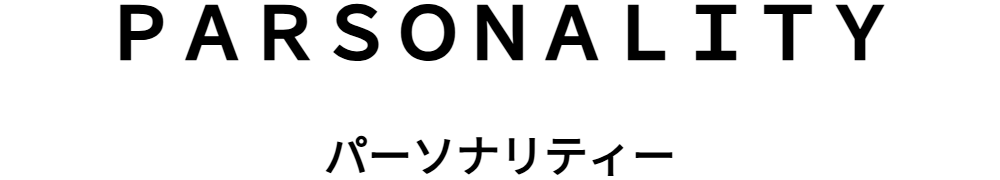
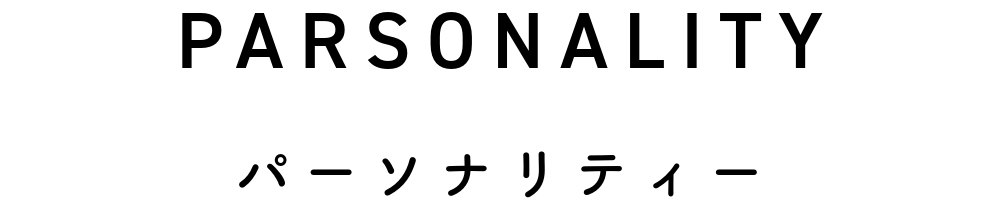
メインビジュアル、セクションヘッド画像修正

Changed region(s): [[0.093, 0.0, 0.899, 0.3611], [0.217, 0.75, 0.682, 1.0], [0.713, 0.8333, 0.775, 0.8889]]

diff --git a/src/pages/index.js b/src/pages/index.js
@@ -21,6 +21,20 @@ const IndexPage = ({ data }) => {
         }
     }, [])
 
+    useEffect(() => {
+        const scriptId = "note-embed-script"
+        if (!document.getElementById(scriptId)) {
+            const script = document.createElement("script")
+            script.id = scriptId
+            script.async = true
+            script.src = "https://note.com/scripts/embed.js"
+            document.body.appendChild(script)
+            return () => {
+                document.body.removeChild(script)
+            }
+        }
+    }, [])
+
     return (
         <Layout pageTitle="Index">
             {/*MAIN VISUAL*/}
@@ -31,9 +45,10 @@ const IndexPage = ({ data }) => {
                     </div>
                 </h1>
                 <StaticImage
-                    src="../images/kagegonomi_mainvisual_temp.png"
+                    src="../images/kagegonomi_mainvisual_temp.webp"
                     alt="kagegonomi main visual"
                     layout="fullWidth"
+                    loading="eager"
                     placeholder="blurred"
                     quality={90}
                     className="w-full h-auto"
@@ -73,8 +88,10 @@ const IndexPage = ({ data }) => {
                                 src="../images/onair.png"
                                 alt="onair"
                                 layout="fixed"
+                                loading="eager"
                                 placeholder="blurred"
                                 height={320}
+                                className="transition transform duration-300 hover:scale-110"
                             />
                         </a>
                     ) : (
@@ -83,8 +100,10 @@ const IndexPage = ({ data }) => {
                                 src="../images/offair.png"
                                 alt="offair"
                                 layout="fixed"
+                                loading="eager"
                                 placeholder="blurred"
                                 height={320}
+                                className="transition transform duration-300 hover:scale-110"
                             />
                         </a>
                     )}
@@ -95,8 +114,23 @@ const IndexPage = ({ data }) => {
                             src="../images/otayori.png"
                             alt="otayori"
                             layout="fixed"
+                            loading="eager"
                             placeholder="blurred"
                             height={180}
+                            className="transition transform duration-300 hover:scale-110"
+                        />
+                    </a>
+                </div>
+                <div className="absolute bottom-0 right-0 mb-16 mr-72">
+                    <a href="https://x.com/kagegonomi" target="_blank" rel="noopener noreferrer">
+                        <StaticImage
+                            src="../images/x_logo.png"
+                            alt="x"
+                            layout="fixed"
+                            loading="eager"
+                            placeholder="blurred"
+                            height={120}
+                            className="transition transform duration-300 hover:scale-110"
                         />
                     </a>
                 </div>
@@ -143,8 +177,8 @@ const IndexPage = ({ data }) => {
             <section className="h-[800px] pt-24 bg-[url('../images/bg_latest_episode.jpg')] bg-no-repeat bg-center bg-fixed bg-cover" id="latest_episode">
                 <h2 className="text-center mb-16">
                     <StaticImage
-                        src="../images/head_latestepisode.png"
-                        alt="LATEST EPISODE | 最新回"
+                        src="../images/head_latestepisode.webp"
+                        alt="LATEST EPISODE | 最新エピソード"
                         height={60}
                         layout="fixed"
                         className="block mx-auto"
@@ -164,9 +198,62 @@ const IndexPage = ({ data }) => {
                     </div>
                 </div>
             </section>
+            {/*ON-AIR NOTES*/}
+            <section className="relative pt-24 pb-24 bg-[#DCE6E2]" id="onair_notes">
+                <h2 className="text-center mb-16">
+                    <StaticImage
+                        src="../images/head_onairnotes.png"
+                        alt="ON-AIR NOTES | 放送メモ"
+                        height={60}
+                        layout="fixed"
+                        className="block mx-auto"
+                    />
+                </h2>
+                <div className="w-[1080px] mx-auto">
+
+                    <div className="table w-full pb-20">
+                        <div className="table-cell align-top w-1/2 pr-3">
+                            <iframe
+                                title="Media player"
+                                src="https://embed.music.apple.com/jp/playlist/%E3%82%AB%E3%82%B2%E3%82%B4%E3%83%8E%E3%83%9F%E3%81%AE%E6%B7%B1%E5%A4%9C%E9%9B%BB%E6%B3%A2-ed%E6%9B%B2-since2025-2-1/pl.u-e98lkq9heV826b?l=en-US&itscg=30200&itsct=music_box_player&ls=1&app=music&mttnsubad=pl.u-e98lkq9heV826b&theme=auto"
+                                id="embedPlayer"
+                                sandbox="allow-forms allow-popups allow-same-origin allow-scripts allow-top-navigation-by-user-activation"
+                                allow="autoplay *; encrypted-media *; clipboard-write"
+                                style={{
+                                    border: "0px",
+                                    borderRadius: "12px",
+                                    width: "100%",
+                                    height: "450px",
+                                    maxWidth: "660px"
+                                }}
+                                height="450"
+                                width="100%"
+                            ></iframe>
+                        </div>
+                        <div className="table-cell align-top w-1/2 pl-3">
+                            <iframe
+                                className="note-embed"
+                                src="https://note.com/embed/notes/ncf0ac4bf869e"
+                                style={{
+                                    border: 0,
+                                    display: "block",
+                                    maxWidth: "99%",
+                                    width: "494px",
+                                    padding: "0px",
+                                    margin: "10px 0px",
+                                    position: "static",
+                                    visibility: "visible",
+                                }}
+                                height="400"
+                                title="Note embed"
+                            ></iframe>
+                        </div>
+                    </div>
+                </div>
+            </section>
             <div className="h-[600px] bg-[url('../images/bg1.jpg')] bg-no-repeat bg-center bg-fixed bg-cover"></div>
             {/*ABOUT*/}
-            <section className="h-[800px] pt-24 bg-[url('../images/bg_about.jpg')] bg-no-repeat bg-center bg-fixed bg-cover" id="about">
+            <section className="h-[800px] pt-24 bg-[url('../images/bg_about.webp')] bg-no-repeat bg-center bg-fixed bg-cover" id="about">
                 <h2 className="text-center mb-20">
                     <StaticImage
                         src="../images/head_about.png"

diff --git a/src/components/layout.js b/src/components/layout.js
@@ -24,7 +24,8 @@ const Layout = ({ children }) => {
                     <div className="navbar-center hidden lg:flex">
                         <ul className="menu menu-horizontal px-1">
                             <li><a href="/#whats_new">WHAT'S NEW</a></li>
-                            <li><a href="/#latest_episode">LATEST CHAPTER</a></li>
+                            <li><a href="/#latest_episode">LATEST EPISODE</a></li>
+                            <li><a href="/#onair_notes">ON-AIR NOTES</a></li>
                             <li><a href="/#about">ABOUT</a></li>
                             <li><a href="/#parsonality">PARSONALITY</a></li>
                         </ul>
@@ -56,7 +57,7 @@ const Layout = ({ children }) => {
                                 if (drawerToggle) drawerToggle.checked = false;
                             }}
                         >
-                            <a href="#whats_new">WHAT'S NEW</a>
+                            <a href="/#whats_new">WHAT'S NEW</a>
                         </label>
                     </li>
                     <li>
@@ -68,7 +69,7 @@ const Layout = ({ children }) => {
                                 if (drawerToggle) drawerToggle.checked = false;
                             }}
                         >
-                            <a href="#latest_episode">LATEST CHAPTER</a>
+                            <a href="/#latest_episode">LATEST EPISODE</a>
                         </label>
                     </li>
                     <li>
@@ -80,7 +81,7 @@ const Layout = ({ children }) => {
                                 if (drawerToggle) drawerToggle.checked = false;
                             }}
                         >
-                            <a href="#about">ABOUT</a>
+                            <a href="/#onair_notes">ON-AIR NOTES</a>
                         </label>
                     </li>
                     <li>
@@ -92,7 +93,19 @@ const Layout = ({ children }) => {
                                 if (drawerToggle) drawerToggle.checked = false;
                             }}
                         >
-                            <a href="#parsonality">PARSONALITY</a>
+                            <a href="/#about">ABOUT</a>
+                        </label>
+                    </li>
+                    <li>
+                        <label
+                            htmlFor="my-drawer-4"
+                            className="cursor-pointer"
+                            onClick={() => {
+                                const drawerToggle = document.getElementById("my-drawer-4");
+                                if (drawerToggle) drawerToggle.checked = false;
+                            }}
+                        >
+                            <a href="/#parsonality">PARSONALITY</a>
                         </label>
                     </li>
                 </ul>

diff --git a/tailwind.config.js b/tailwind.config.js
@@ -23,6 +23,15 @@ module.exports = {
                     'sans-serif',
                 ],
             },
+            keyframes: {
+                slideDown: {
+                    '0%': { opacity: '0', transform: 'translateY(-50%)' },
+                    '100%': { opacity: '1', transform: 'translateY(0)' },
+                },
+            },
+            animation: {
+                slideDown: 'slideDown 0.25s ease-out forwards',
+            },
         },
     },
     plugins: [
